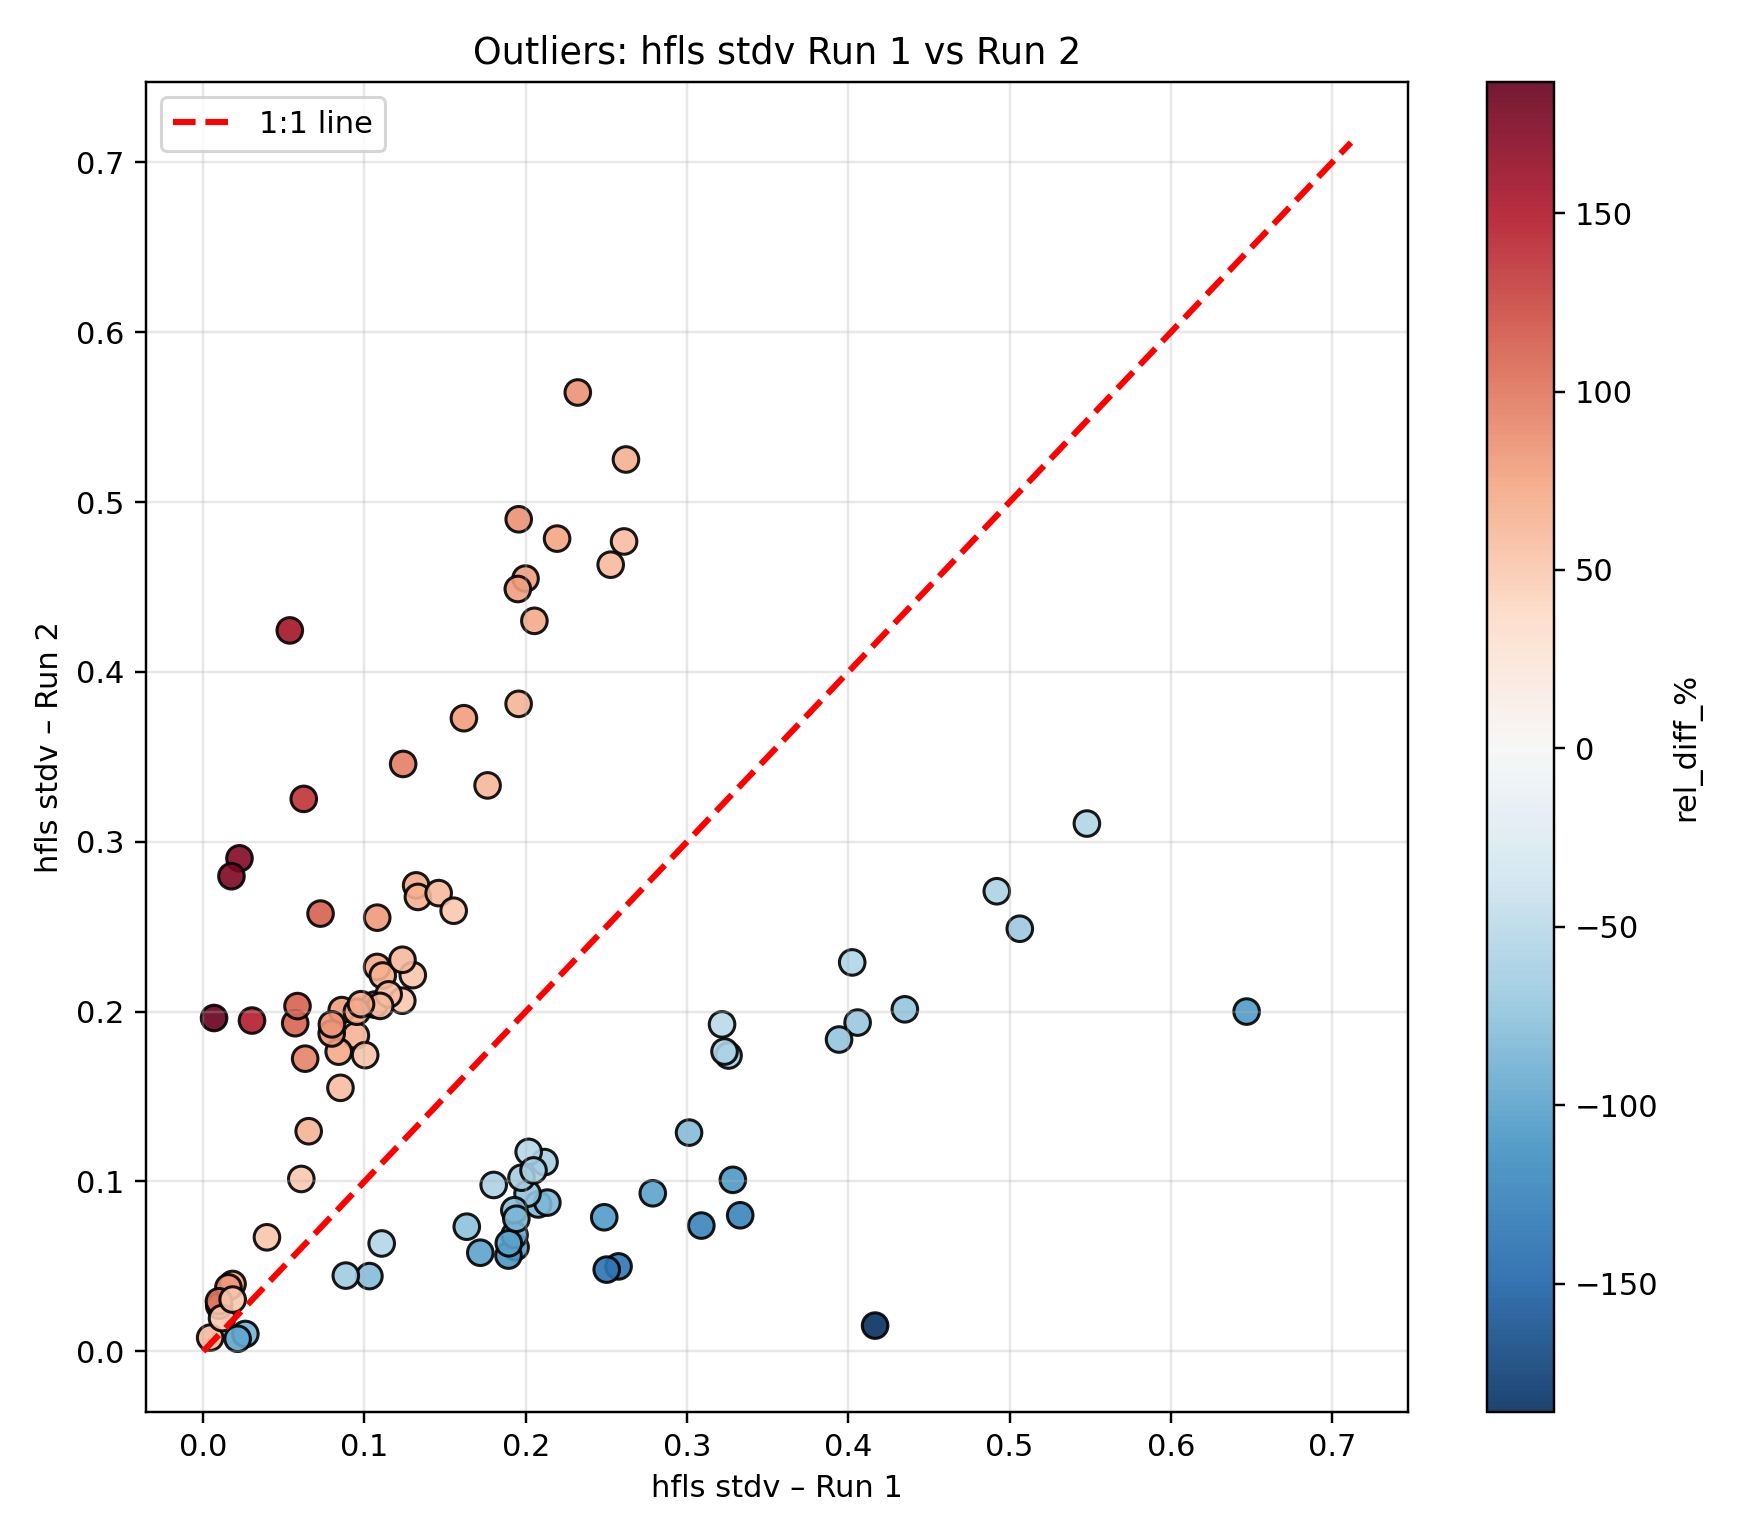
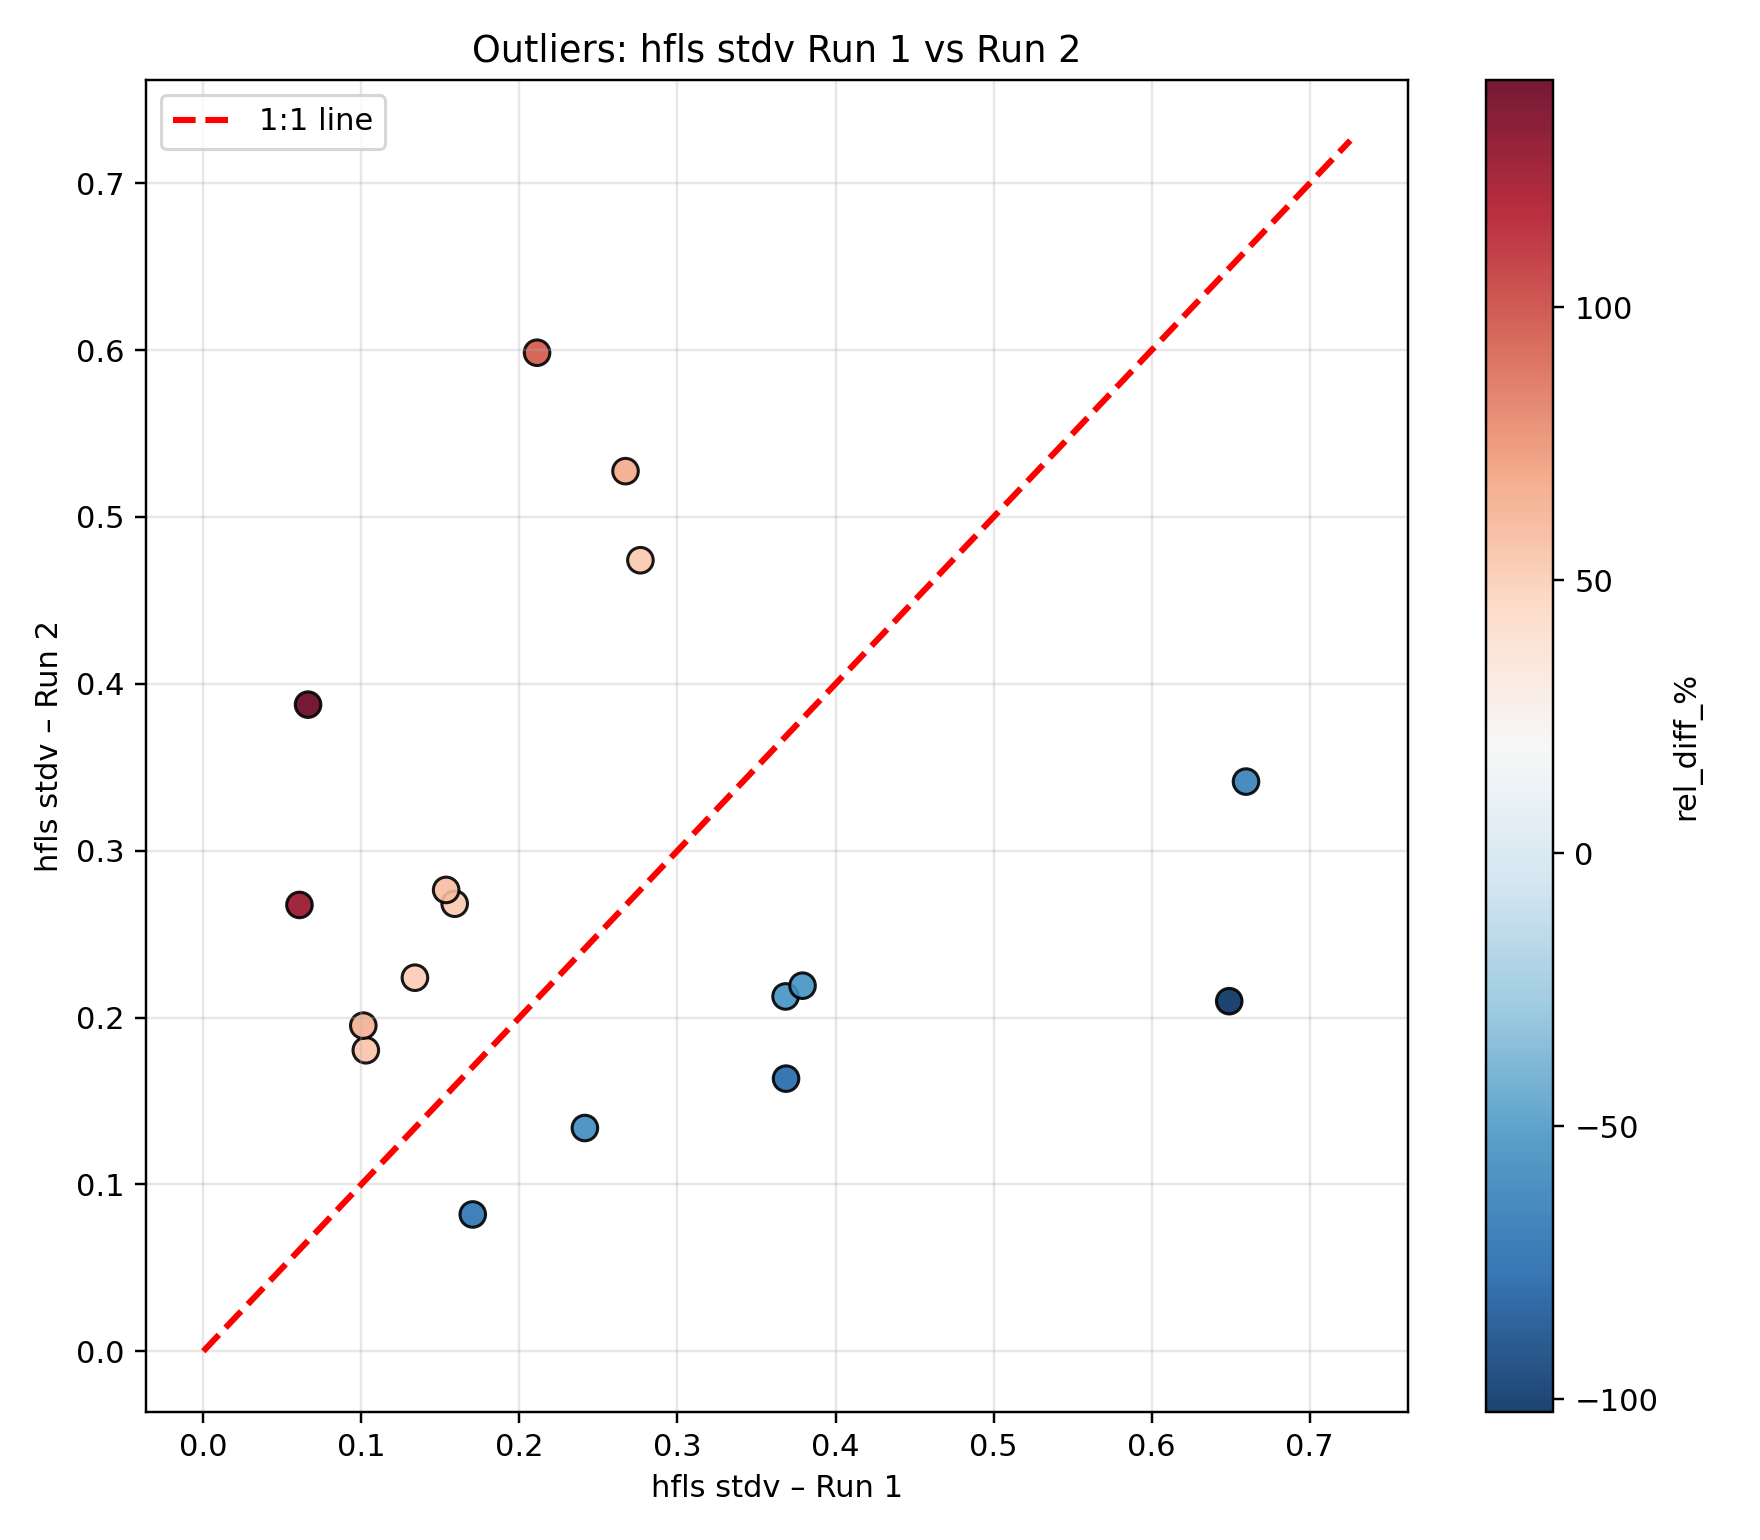
update to files

diff --git a/data_test.py b/data_test.py
@@ -5,12 +5,12 @@ import matplotlib.pyplot as plt
 from scipy import stats
 
 # === CONFIGURATION ===
-N = 500  # Window size used to compute stdv in processing
+N = 10  # Window size used to compute stdv in processing
 
 # --- Load flux runs ---
 print("Loading flux runs...")
-r1 = pd.read_csv("KAOU2025_flux_r1.csv")
-r2 = pd.read_csv("KAOU2025_flux_r2.csv")
+r1 = pd.read_csv("data/output/KAOU_r1/KAOU2018_r1.csv")
+r2 = pd.read_csv("data/output/KAOU_r2/KAOU2018_r2.csv")
 
 # Merge on timestamp
 df = r1.merge(r2, on='time', suffixes=('_r1', '_r2'))
@@ -26,7 +26,7 @@ print("\nLoading KAOU2025.csv ...")
 
 try:
     raw_df = pd.read_csv(
-        "KAOU2025.csv",
+        "data/input/KAOU/KAOU2025.csv",
         skiprows=[1],           # Skip units row (UTC, degrees_north, ...)
         engine="python",        # Handle malformed lines
         on_bad_lines="skip",    # Skip bad lines

diff --git a/plt_test_fig.py b/plt_test_fig.py
@@ -11,7 +11,7 @@ from matplotlib import cm
 # ------------------------------------------------------------------
 # 1. CONFIGURATION
 # ------------------------------------------------------------------
-CSV_FILE = "plots/hfls_stdv_outliers_FULL_N500.csv"   # Change if needed
+CSV_FILE = "plots/hfls_stdv_outliers_FULL_N10.csv"   # Change if needed
 OUT_DIR = "outlier_plots_enhanced"
 os.makedirs(OUT_DIR, exist_ok=True)
 
